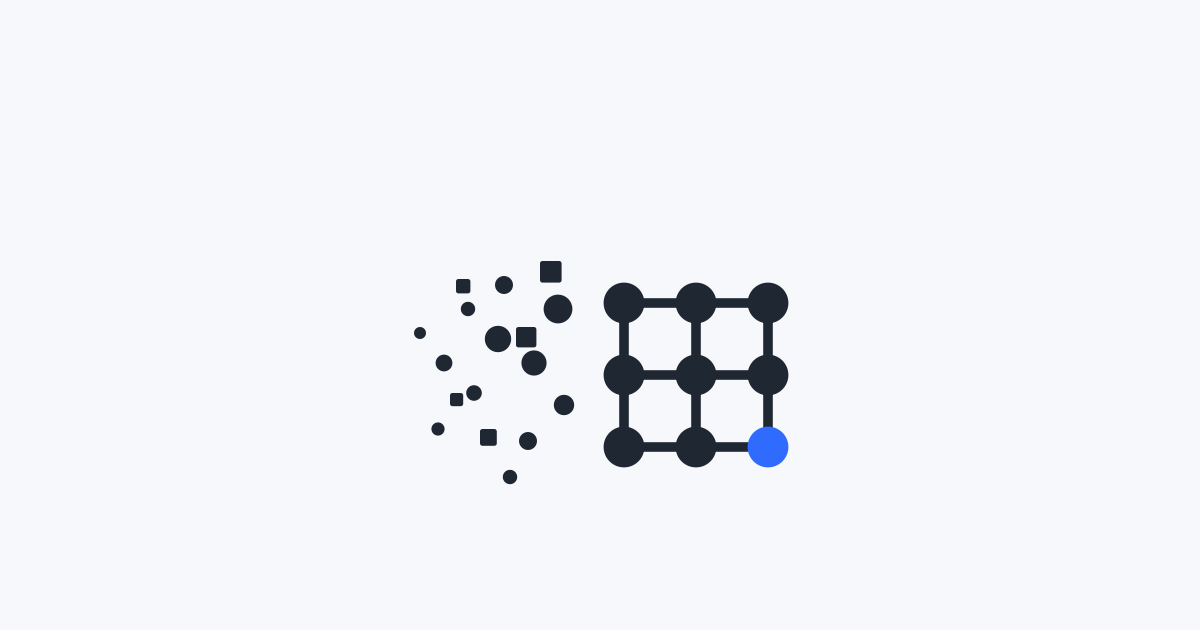
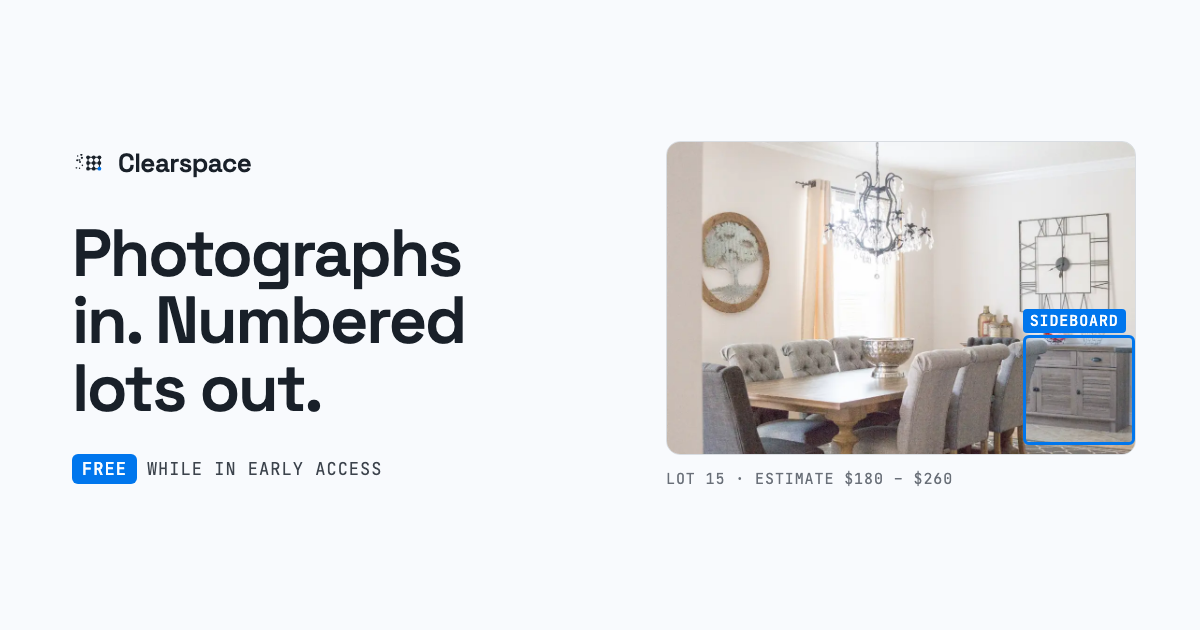
Give the shared link a card that says something
The page at / is a static file behind a rewrite, so it inherited none of
the app's generated metadata: no og:image, no favicon, and a description
still advertising a price we stopped charging. A link preview drew a
bare title and nothing else.

The card is now built from the same photograph, box and lot the page
opens with, so the preview is a promise the site immediately keeps.
`node marketing/og.mjs` regenerates it; it stays out of the deploy build
because it needs a real Chrome.

The app's own title and blurb were still selling Marketplace listings to
someone clearing a garage. They now describe a catalogue.

diff --git a/marketing/og.src.html b/marketing/og.src.html
@@ -1,0 +1,171 @@
+<!DOCTYPE html>
+<!--
+  Source for public/og.png, the 1200x630 card a link preview draws.
+
+  Rendered locally with `node marketing/og.mjs`, which needs Chrome, so the
+  PNG is committed rather than built on deploy. Regenerate it whenever the
+  headline or the offer changes: a share card that still advertises a price we
+  no longer charge is worse than no card at all.
+-->
+<html lang="en">
+<head>
+<meta charset="utf-8">
+<style>
+@font-face {
+  font-family: 'Space Grotesk';
+  font-weight: 500 700;
+  src: url("fonts/space-grotesk-latin.woff2") format("woff2");
+}
+@font-face {
+  font-family: 'Inter';
+  font-weight: 400 600;
+  src: url("fonts/inter-latin.woff2") format("woff2");
+}
+@font-face {
+  font-family: 'JetBrains Mono';
+  font-weight: 400 500;
+  src: url("fonts/jetbrains-mono-latin.woff2") format("woff2");
+}
+
+:root {
+  --color-paper: oklch(98.5% 0.004 250);
+  --color-paper-2: oklch(96.6% 0.005 250);
+  --color-ink: oklch(24% 0.02 258);
+  --color-ink-2: oklch(38% 0.018 257);
+  --color-ink-3: oklch(54% 0.015 257);
+  --color-rule: oklch(89.5% 0.008 254);
+  --color-accent: oklch(58% 0.20 256);
+  --color-accent-ink: oklch(99% 0.005 250);
+  --font-display: 'Space Grotesk', sans-serif;
+  --font-body: 'Inter', sans-serif;
+  --font-mono: 'JetBrains Mono', monospace;
+}
+
+* { box-sizing: border-box; margin: 0; }
+
+body {
+  width: 1200px;
+  height: 630px;
+  display: grid;
+  grid-template-columns: 1fr 470px;
+  align-items: center;
+  gap: 56px;
+  padding: 64px 64px 64px 72px;
+  background: var(--color-paper);
+  color: var(--color-ink);
+  font-family: var(--font-body);
+}
+
+.brand {
+  display: flex;
+  align-items: center;
+  gap: 12px;
+  font-family: var(--font-display);
+  font-size: 26px;
+  font-weight: 600;
+  letter-spacing: -0.022em;
+}
+.brand svg { width: 34px; height: 34px; fill: currentColor; }
+.brand .grid { stroke: currentColor; fill: none; }
+.brand .live { fill: var(--color-accent); }
+
+h1 {
+  margin-block-start: 40px;
+  font-family: var(--font-display);
+  font-size: 66px;
+  font-weight: 600;
+  letter-spacing: -0.032em;
+  line-height: 1.02;
+  max-width: 11ch;
+}
+
+.offer {
+  margin-block-start: 32px;
+  display: inline-flex;
+  align-items: center;
+  gap: 10px;
+  font-family: var(--font-mono);
+  font-size: 17px;
+  letter-spacing: 0.06em;
+  text-transform: uppercase;
+  color: var(--color-ink-2);
+}
+.offer b {
+  font-weight: 500;
+  color: var(--color-accent-ink);
+  background: var(--color-accent);
+  padding: 4px 10px;
+  border-radius: 6px;
+}
+
+/* The same photograph and the same box as the page, so the card is a promise
+   the site immediately keeps. */
+.frame {
+  position: relative;
+  border: 1px solid var(--color-rule);
+  border-radius: 14px;
+  overflow: hidden;
+  background: var(--color-paper-2);
+}
+.frame img { display: block; width: 100%; height: auto; aspect-ratio: 3 / 2; object-fit: cover; }
+
+.det {
+  position: absolute;
+  left: 76%; top: 62%; width: 24%; height: 35%;
+  border: 3px solid var(--color-accent);
+  border-radius: 6px;
+  background: color-mix(in oklch, var(--color-accent) 12%, transparent);
+}
+.det b {
+  position: absolute;
+  inset-block-end: 100%;
+  inset-inline-start: -3px;
+  margin-block-end: 5px;
+  padding: 2px 7px;
+  font-family: var(--font-mono);
+  font-size: 15px;
+  font-weight: 500;
+  letter-spacing: 0.06em;
+  text-transform: uppercase;
+  white-space: nowrap;
+  color: var(--color-accent-ink);
+  background: var(--color-accent);
+  border-radius: 4px;
+}
+
+.caption {
+  margin-block-start: 14px;
+  font-family: var(--font-mono);
+  font-size: 15px;
+  letter-spacing: 0.06em;
+  text-transform: uppercase;
+  color: var(--color-ink-3);
+}
+</style>
+</head>
+<body>
+  <div>
+    <div class="brand">
+      <svg viewBox="0 0 72 72" aria-hidden="true">
+        <g><circle cx="21" cy="25" r="2.4"/><circle cx="22" cy="41" r="1.7"/><circle cx="17" cy="34" r="2.1"/><circle cx="16" cy="47" r="1.5"/><circle cx="12" cy="21" r="1.5"/><circle cx="11" cy="30" r="2.2"/><rect x="18" y="17" width="3.6" height="3.6" rx="0.4"/><rect x="14" y="28" width="3.4" height="3.4" rx="0.4"/><rect x="8" y="45" width="2.8" height="2.8" rx="0.4"/></g>
+        <g class="grid" stroke-width="2.2" stroke-linecap="round"><line x1="34" y1="24" x2="58" y2="24"/><line x1="34" y1="36" x2="58" y2="36"/><line x1="34" y1="48" x2="58" y2="48"/><line x1="34" y1="24" x2="34" y2="48"/><line x1="46" y1="24" x2="46" y2="48"/><line x1="58" y1="24" x2="58" y2="48"/></g>
+        <g><circle cx="34" cy="24" r="4"/><circle cx="46" cy="24" r="4"/><circle cx="58" cy="24" r="4"/><circle cx="34" cy="36" r="4"/><circle cx="46" cy="36" r="4"/><circle cx="58" cy="36" r="4"/><circle cx="34" cy="48" r="4"/><circle cx="46" cy="48" r="4"/></g>
+        <circle class="live" cx="58" cy="48" r="4"/>
+      </svg>
+      Clearspace
+    </div>
+
+    <h1>Photographs in. Numbered lots out.</h1>
+
+    <p class="offer"><b>Free</b> while in early access</p>
+  </div>
+
+  <div>
+    <div class="frame">
+      <img src="photos/dining.webp" alt="">
+      <span class="det"><b>sideboard</b></span>
+    </div>
+    <p class="caption">Lot 15 · Estimate $180 – $260</p>
+  </div>
+</body>
+</html>

diff --git a/marketing/page.src.html b/marketing/page.src.html
@@ -14,8 +14,34 @@
 <meta charset="utf-8">
 <meta name="viewport" content="width=device-width, initial-scale=1">
 <title>Clearspace: photographs in, numbered lots out</title>
-<meta name="description" content="Clearspace turns the photographs your staff already take into a finished auction catalogue: numbered lots, written descriptions, and a researched low/high estimate with its sources. $0.50 a lot, first 25 free.">
+<meta name="description" content="Clearspace turns the photographs your staff already take into a finished auction catalogue: numbered lots, written descriptions, condition, and a researched low/high estimate with its sources. Free while in early access.">
 <meta name="color-scheme" content="light dark">
+
+<!--
+  This page is served as a static file through a rewrite, so it inherits none
+  of the app's generated metadata. Everything a link preview needs has to be
+  spelled out here, with absolute URLs: a messaging app fetches these from its
+  own servers, where a relative path resolves against nothing.
+-->
+<link rel="canonical" href="https://clearspace.auction/">
+<link rel="icon" href="/icon.svg" type="image/svg+xml">
+<link rel="apple-touch-icon" href="/apple-icon.png">
+
+<meta property="og:type" content="website">
+<meta property="og:site_name" content="Clearspace">
+<meta property="og:url" content="https://clearspace.auction/">
+<meta property="og:title" content="Clearspace: photographs in, numbered lots out">
+<meta property="og:description" content="Photographs of a house or a unit become a finished auction catalogue: numbered lots, written descriptions, and a researched low/high estimate with its sources. Free while in early access.">
+<meta property="og:image" content="https://clearspace.auction/og.png">
+<meta property="og:image:type" content="image/png">
+<meta property="og:image:width" content="1200">
+<meta property="og:image:height" content="630">
+<meta property="og:image:alt" content="A dining room photograph with a box drawn round the sideboard, catalogued as Lot 15 with an estimate of $180 to $260.">
+
+<meta name="twitter:card" content="summary_large_image">
+<meta name="twitter:title" content="Clearspace: photographs in, numbered lots out">
+<meta name="twitter:description" content="Photographs of a house or a unit become a finished auction catalogue: numbered lots, written descriptions, and a researched low/high estimate with its sources. Free while in early access.">
+<meta name="twitter:image" content="https://clearspace.auction/og.png">
 <style>
 /* Hallmark · pre-emit critique: P5 H5 E5 S5 R5 V4
  * Hallmark · genre: modern-minimal · macrostructure: Split Studio · theme: Cobalt

diff --git a/public/site/index.html b/public/site/index.html
@@ -14,8 +14,34 @@
 <meta charset="utf-8">
 <meta name="viewport" content="width=device-width, initial-scale=1">
 <title>Clearspace: photographs in, numbered lots out</title>
-<meta name="description" content="Clearspace turns the photographs your staff already take into a finished auction catalogue: numbered lots, written descriptions, and a researched low/high estimate with its sources. $0.50 a lot, first 25 free.">
+<meta name="description" content="Clearspace turns the photographs your staff already take into a finished auction catalogue: numbered lots, written descriptions, condition, and a researched low/high estimate with its sources. Free while in early access.">
 <meta name="color-scheme" content="light dark">
+
+<!--
+  This page is served as a static file through a rewrite, so it inherits none
+  of the app's generated metadata. Everything a link preview needs has to be
+  spelled out here, with absolute URLs: a messaging app fetches these from its
+  own servers, where a relative path resolves against nothing.
+-->
+<link rel="canonical" href="https://clearspace.auction/">
+<link rel="icon" href="/icon.svg" type="image/svg+xml">
+<link rel="apple-touch-icon" href="/apple-icon.png">
+
+<meta property="og:type" content="website">
+<meta property="og:site_name" content="Clearspace">
+<meta property="og:url" content="https://clearspace.auction/">
+<meta property="og:title" content="Clearspace: photographs in, numbered lots out">
+<meta property="og:description" content="Photographs of a house or a unit become a finished auction catalogue: numbered lots, written descriptions, and a researched low/high estimate with its sources. Free while in early access.">
+<meta property="og:image" content="https://clearspace.auction/og.png">
+<meta property="og:image:type" content="image/png">
+<meta property="og:image:width" content="1200">
+<meta property="og:image:height" content="630">
+<meta property="og:image:alt" content="A dining room photograph with a box drawn round the sideboard, catalogued as Lot 15 with an estimate of $180 to $260.">
+
+<meta name="twitter:card" content="summary_large_image">
+<meta name="twitter:title" content="Clearspace: photographs in, numbered lots out">
+<meta name="twitter:description" content="Photographs of a house or a unit become a finished auction catalogue: numbered lots, written descriptions, and a researched low/high estimate with its sources. Free while in early access.">
+<meta name="twitter:image" content="https://clearspace.auction/og.png">
 <style>
 /* Hallmark · pre-emit critique: P5 H5 E5 S5 R5 V4
  * Hallmark · genre: modern-minimal · macrostructure: Split Studio · theme: Cobalt

diff --git a/app/layout.tsx b/app/layout.tsx
@@ -24,9 +24,9 @@ const jetbrainsMono = JetBrains_Mono({
   display: 'swap',
 })
 
-const TAGLINE = 'List everything in minutes, not weekends.'
+const TAGLINE = 'photographs in, numbered lots out'
 const BLURB =
-  'Photograph the space. AI splits it into items, writes each listing, and gets them ready for Facebook Marketplace and eBay.'
+  'Clearspace turns the photographs your staff already take into a finished auction catalogue: numbered lots, written descriptions, condition, and a researched low/high estimate with its sources.'
 
 export const metadata: Metadata = {
   /*
